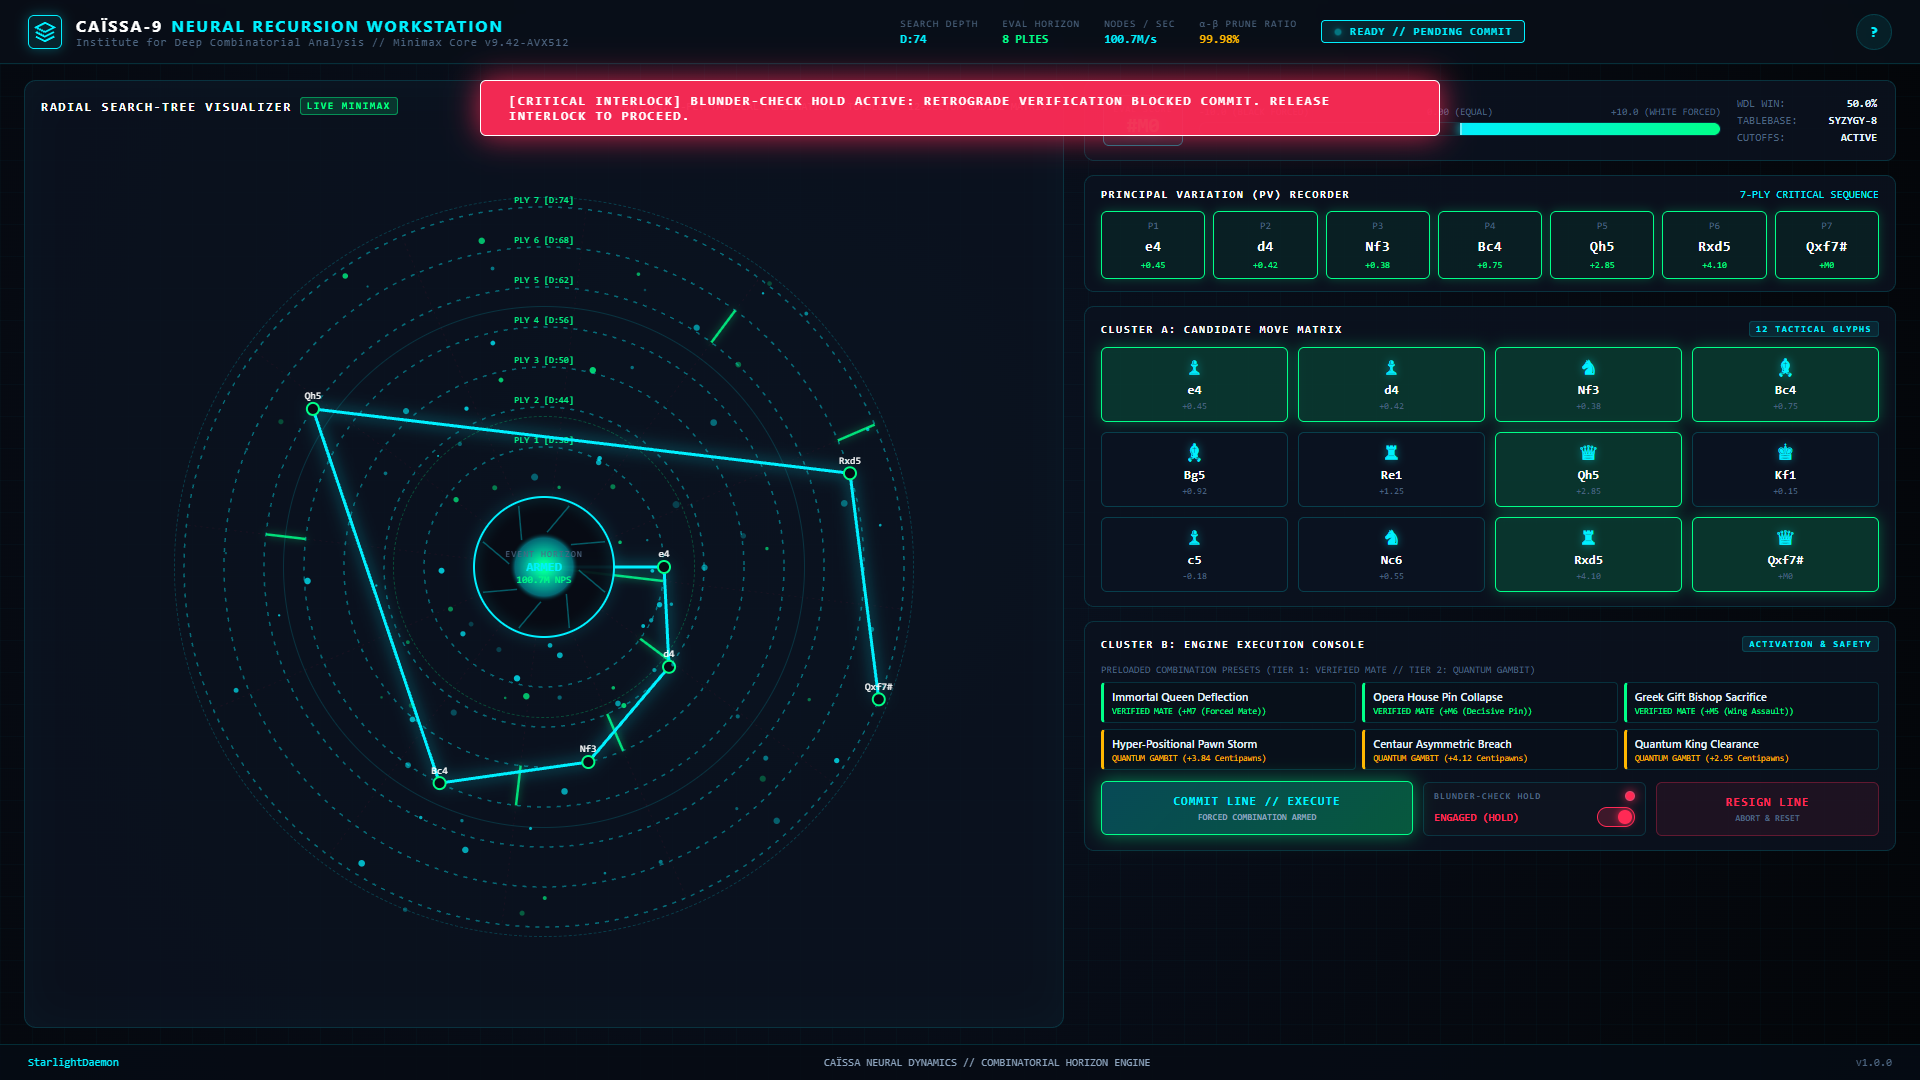
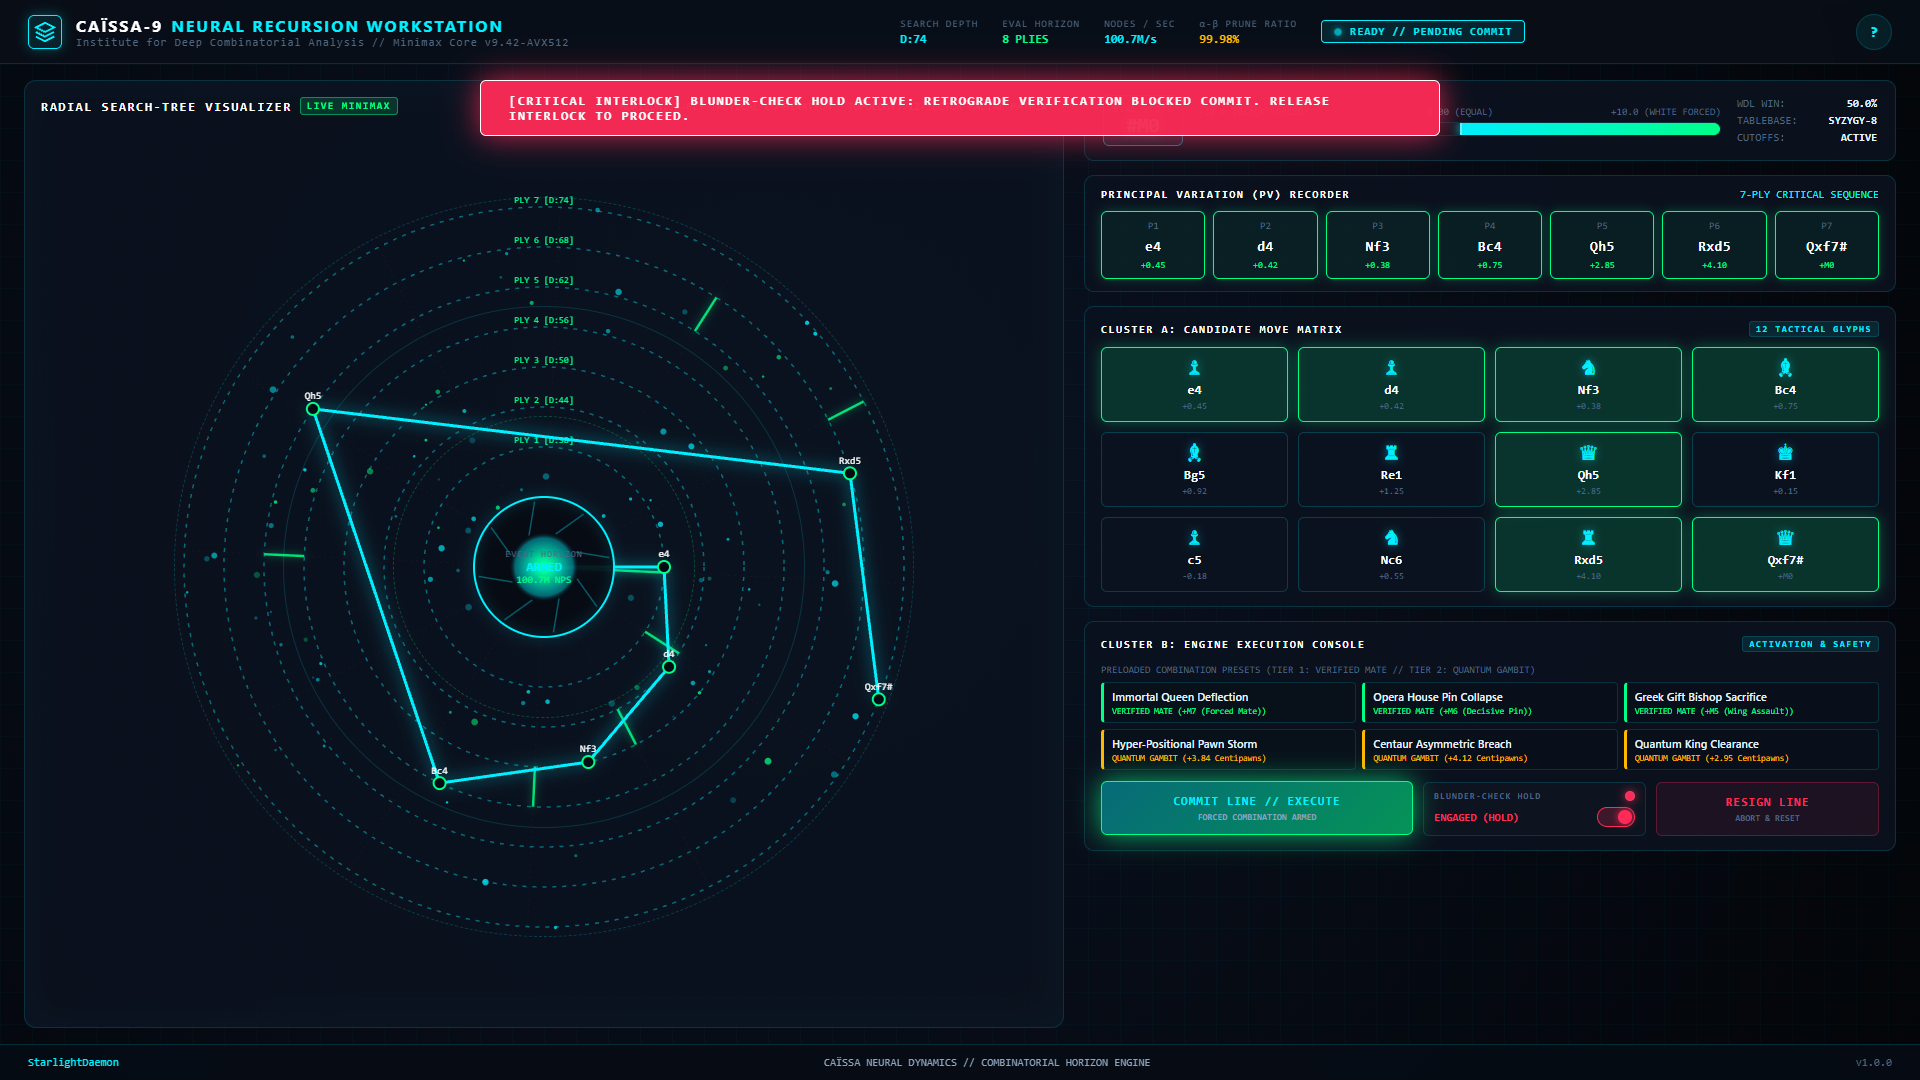
fix(stargate_caissa_workstation): stage preset quick-dial through per-ply locks (v1.1.0)
Presets previously pushed all 7 plies synchronously, jumping idle ->
LINE_PENDING_COMMIT and skipping the per-ply lock animation/audio manual
dialing uses. loadPreset now replays the line through the same dialMove
lock path, one ply per 280ms (transposition-table cache replay), with
per-ply audio/ring feedback via a UI hook. Replay arms without auto-
firing; RESIGN LINE aborts mid-replay and cancels pending ply timers.
Tests: staged-replay sampling with mid-sequence screenshots, mid-replay
disengage test, absolute-clock timing to deflake stage sampling.

diff --git a/stargate_caissa_workstation/js/engine_state.js b/stargate_caissa_workstation/js/engine_state.js
@@ -90,6 +90,8 @@ class CaissaEngineState {
     this.listeners = [];
     this.activationTimer = null;
     this.activePresetId = null;
+    this.presetReplayTimers = [];
+    this.onPresetPlyLocked = null; // UI hook: per-ply lock feedback during preset replay
   }
 
   subscribe(listener) {
@@ -147,7 +149,13 @@ class CaissaEngineState {
   }
 
   /**
-   * Load a pre-defined tactical preset
+   * Load a pre-defined tactical preset.
+   *
+   * TRANSPOSITION-TABLE CACHE REPLAY: canon lines are already
+   * retrograde-verified, so the engine replays them from cache at full
+   * internal clock speed — but every ply still passes through the same
+   * alpha-beta lock (dialMove) as a manually dialed move. The line arms
+   * only when the final ply locks; it NEVER auto-commits.
    */
   loadPreset(presetId) {
     if (this.status === "STAGE_BUILDUP" || this.status === "STAGE_BREAKTHROUGH" || this.status === "STAGE_SUSTAINED") {
@@ -157,32 +165,36 @@ class CaissaEngineState {
     const preset = PRESETS.find(p => p.id === presetId);
     if (!preset) return false;
 
+    this.cancelPresetReplay();
     this.activePresetId = presetId;
     this.history = [];
     this.currentEval = 0.0;
+    this.currentDepth = 32;
+    this.currentNodes = 48.2;
+    this.status = "DIALING";
+    this.notify();
 
+    const REPLAY_PLY_INTERVAL_MS = 280; // cache-replay clock: faster than any human, each lock still distinct
     preset.moves.forEach((moveId, idx) => {
-      const moveDef = CANDIDATE_MOVES.find(m => m.id === moveId);
-      if (moveDef) {
-        let evalDelta = parseFloat(moveDef.delta) || 1.2;
-        if (moveDef.delta === "+M0") {
-          this.currentEval = 99.9;
-        } else {
-          this.currentEval = Math.min(15.0, Math.round((this.currentEval + evalDelta) * 100) / 100);
+      const timer = setTimeout(() => {
+        if (this.activePresetId !== presetId) return; // replay cancelled or superseded
+        const locked = this.dialMove(moveId);
+        if (locked && typeof this.onPresetPlyLocked === "function") {
+          this.onPresetPlyLocked(moveId, idx);
         }
-        this.history.push({
-          ply: idx + 1,
-          move: moveDef,
-          evalAtPly: this.currentEval
-        });
-      }
+      }, REPLAY_PLY_INTERVAL_MS * (idx + 1));
+      this.presetReplayTimers.push(timer);
     });
 
-    this.currentDepth = 68;
-    this.currentNodes = 88.5;
-    this.status = "LINE_PENDING_COMMIT"; // Loaded ready to commit, NOT auto-fired!
-    this.notify();
     return true;
+  }
+
+  /**
+   * Cancel any in-flight preset cache replay (abort-safe at every ply)
+   */
+  cancelPresetReplay() {
+    this.presetReplayTimers.forEach(t => clearTimeout(t));
+    this.presetReplayTimers = [];
   }
 
   /**
@@ -263,6 +275,8 @@ class CaissaEngineState {
       clearTimeout(this.activationTimer);
       this.activationTimer = null;
     }
+
+    this.cancelPresetReplay();
 
     if (window.CaissaAudio) {
       window.CaissaAudio.playResignSwoosh();

diff --git a/stargate_caissa_workstation/js/app.js b/stargate_caissa_workstation/js/app.js
@@ -130,22 +130,30 @@ document.addEventListener("DOMContentLoaded", () => {
   // Initial UI Render
   updateUIFromState(window.CaissaState);
 
-  // Core Event Handlers
-  function handleMoveSelection(moveId, btnElem) {
-    if (!window.CaissaState) return;
-
+  // Shared per-ply lock feedback (audio + ring burst) — used by manual
+  // dialing AND by the preset cache replay, so both paths lock identically.
+  function playPlyLockFeedback(plyIndex) {
     if (window.CaissaAudio) {
       window.CaissaAudio.playClockPlunge();
       setTimeout(() => window.CaissaAudio.playNotationTick(), 40);
-      setTimeout(() => window.CaissaAudio.playConfirmBlip(1.0 + window.CaissaState.history.length * 0.1), 80);
+      setTimeout(() => window.CaissaAudio.playConfirmBlip(1.0 + plyIndex * 0.1), 80);
     }
-
-    // Trigger ring visual effects
     if (ringRenderer) {
-      const rect = btnElem.getBoundingClientRect();
       ringRenderer.triggerPruneBurst(480, 400, "α-cut");
     }
+  }
 
+  // Per-ply feedback hook fired by the engine's preset cache replay
+  if (window.CaissaState) {
+    window.CaissaState.onPresetPlyLocked = (moveId, idx) => {
+      playPlyLockFeedback(idx);
+    };
+  }
+
+  // Core Event Handlers
+  function handleMoveSelection(moveId, btnElem) {
+    if (!window.CaissaState) return;
+    playPlyLockFeedback(window.CaissaState.history.length);
     window.CaissaState.dialMove(moveId);
   }
 

diff --git a/stargate_caissa_workstation/CHANGELOG.md b/stargate_caissa_workstation/CHANGELOG.md
@@ -5,6 +5,19 @@ All notable changes to the **Caïssa Neural Recursion Workstation** (`stargate_c
 The format is based on [Keep a Changelog](https://keepachangelog.com/en/1.0.0/),
 and this project adheres to [Semantic Versioning](https://semver.org/spec/v2.0.0.html).
 
+## [1.1.0] - 2026-08-15
+
+**Built by:** Claude Opus (auto-dial staging fix; original build by Gemini 3.7 Flash)
+
+### Fixed
+- **Preset Quick-Dial Instant-Jump Bug**: selecting a tactical preset previously pushed all 7 plies into the Principal Variation synchronously, jumping straight from idle to `PENDING COMMIT` and bypassing the per-ply alpha-beta lock animation and audio that manual dialing uses.
+- **Transposition-Table Cache Replay**: presets now replay their line through the exact same per-ply lock path as manual dialing (`dialMove`), one ply every 280ms — in-universe, the engine replays a retrograde-verified canon line from its transposition table at full internal clock speed, but every ply still passes through individual alpha-beta confirmation with the full lock visual, clock-plunge/notation-tick/confirm-blip audio, and ring prune burst.
+- Replay lands in the identical `LINE_PENDING_COMMIT` armed state as manual dialing and **never auto-commits** (negative auto-fire guarantee preserved and re-verified).
+- `RESIGN LINE // ABORT` remains fully functional **during** the replay: aborting mid-sequence cancels all pending ply timers and returns cleanly to `IDLE` (new automated test).
+
+### Changed
+- Verification suite: added staged-replay test with in-progress screenshot sampling (Test 8) and mid-replay disengage test (Test 9); preset assertions re-timed for the ~2s replay; three-stage activation sampling moved to an absolute clock to remove screenshot-latency flakiness in Test 4.
+
 ## [1.0.0] - 2026-08-15
 
 **Built by:** Gemini 3.7 Flash (High reasoning)
